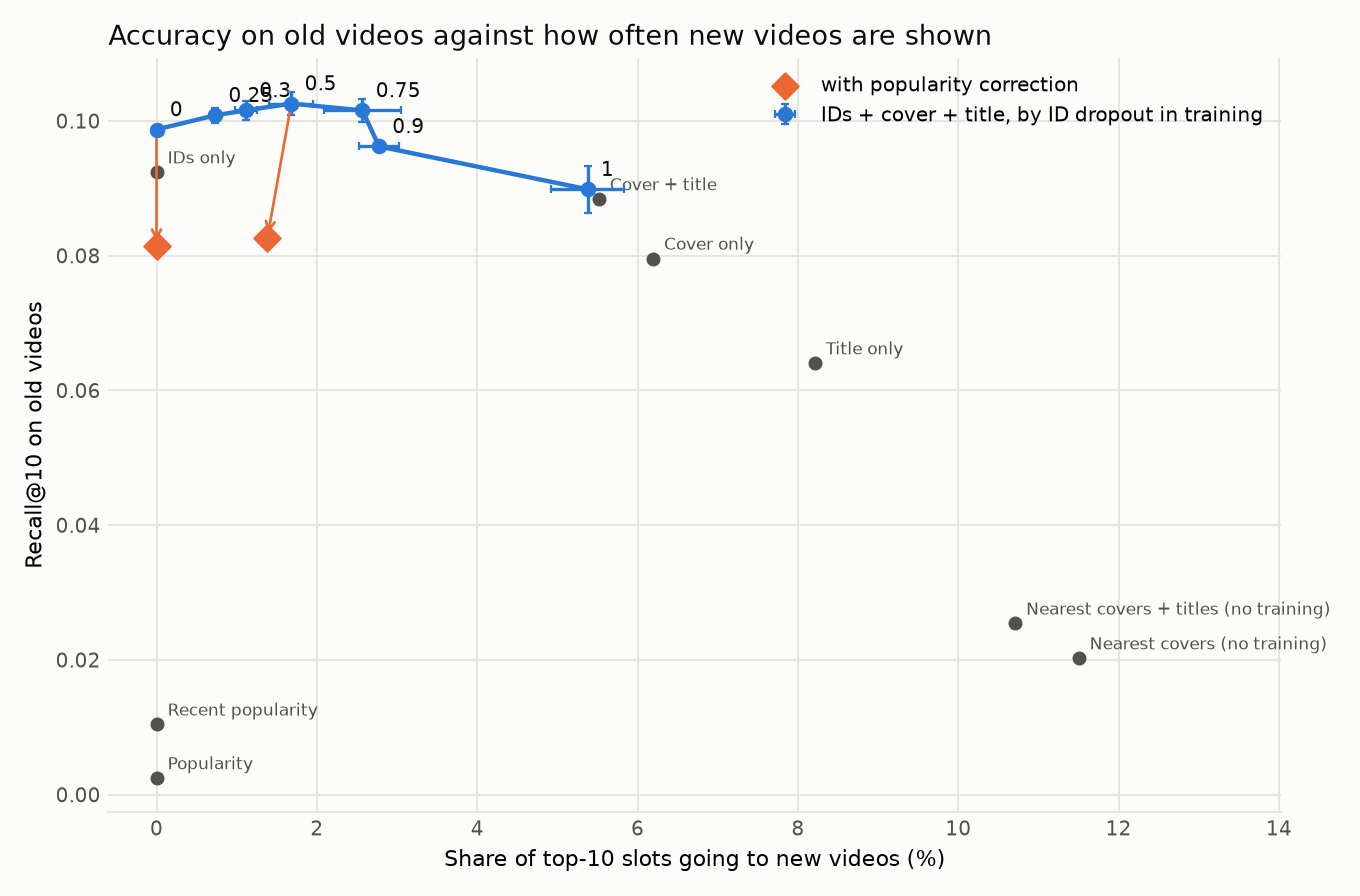
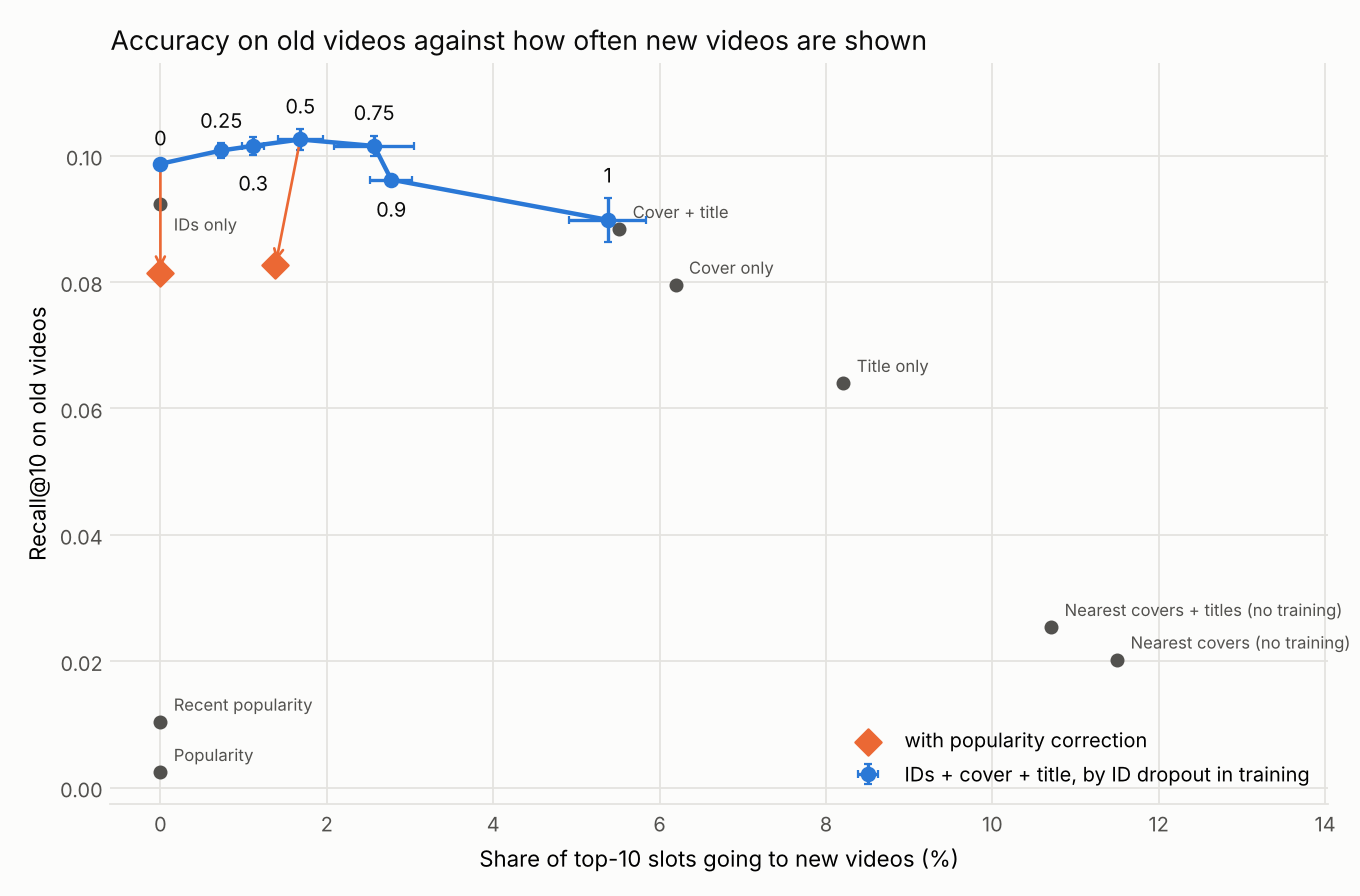
Redraw the vector-length figure so models compare at the same exposure, and stop trade-off labels overlapping

diff --git a/scripts/scale_test.py b/scripts/scale_test.py
@@ -197,36 +197,127 @@ def side_by_side(results: dict, names: dict[str, str]) -> list[str]:
     return lines + [""]
 
 
-def chart(results: dict, names: dict[str, str], path: Path) -> None:
+def curve(seeds: dict) -> list[dict]:
+    """One point per factor (the fixed ones and the calibrated one), mean and std over seeds, by factor.
+
+    "matched" is left out: it is a different factor in each seed and it is reported in the tables."""
+    labels = [r["label"] for r in next(iter(seeds.values()))["rows"] if r["label"] != "matched"]
+    points = []
+    for label in labels:
+        rows = [r for s in seeds.values() for r in s["rows"] if r["label"] == label]
+        point = {"label": label, "factor": mean_std([r["factor"] for r in rows])[0]}
+        for key, path in (("exposure", ("exposure", "cold_slot_share")), ("new", ("cold_all", "recall@10")),
+                          ("old", ("warm_all", "recall@10"))):
+            mean, std = mean_std([r[path[0]][path[1]] for r in rows])
+            point[key], point[f"{key}_std"] = mean, std or 0.0
+        points.append(point)
+    return sorted(points, key=lambda p: p["factor"])
+
+
+# Fixed per model, so a model keeps its colour whichever models are shown.
+COLORS = {"id_content_dropout_050": "#2a78d6", "id_content_dropout_100": "#eb6834",
+          "id_content_dropout_000": "#1baf7a"}
+SHORT = {"id_content_dropout_000": "ID dropout 0", "id_content_dropout_050": "ID dropout 0.5",
+         "id_content_dropout_100": "No IDs"}
+
+
+def visible_range(shown: dict, key: str, x_max: float) -> tuple[float, float]:
+    """Lowest and highest value of `key` the lines reach left of x_max (exposure in %)."""
+    values = []
+    for points in shown.values():
+        xs = [100 * p["exposure"] for p in points]
+        values += [p[key] for p, x in zip(points, xs) if x <= x_max]
+        values.append(float(np.interp(x_max, xs, [p[key] for p in points])))
+    return min(values), max(values)
+
+
+def spread(ys: dict, gap: float) -> dict:
+    """Move label positions apart so that neighbours are at least `gap` apart.
+
+    Labels closer than `gap` form a group, spaced `gap` apart around the group's mean; others stay put."""
+    order = sorted(ys, key=ys.get)
+    groups = [[order[0]]]
+    for name in order[1:]:
+        if ys[name] - ys[groups[-1][-1]] < gap:
+            groups[-1].append(name)
+        else:
+            groups.append([name])
+    out = {}
+    for group in groups:
+        centre = sum(ys[n] for n in group) / len(group)
+        for i, name in enumerate(group):
+            out[name] = centre + (i - (len(group) - 1) / 2) * gap
+    return out
+
+
+def chart(results: dict, names: dict[str, str], path: Path, x_max: float = 25.0) -> None:
+    """Old- and new-video recall against new videos' share of slots, as the factor grows.
+
+    Each line is one model; moving right along it multiplies new videos' vectors by a bigger factor.
+    Hollow dot: the model as trained. Large dot: the factor calibrated on validation users."""
     import matplotlib
     matplotlib.use("Agg")
     import matplotlib.pyplot as plt
-    from report import COLD_COLOR, INK, MUTED, SURFACE, WARM_COLOR, style_axis
+    from report import INK, MUTED, SURFACE, style_axis
 
-    shown = {n: s for n, s in results.items() if s}
-    fig, axes = plt.subplots(1, len(shown), figsize=(5.2 * len(shown), 4.2), facecolor=SURFACE, squeeze=False)
-    for ax, (name, seeds) in zip(axes[0], shown.items()):
-        n_fixed = len(FACTORS)
-        factors = [r["factor"] for r in next(iter(seeds.values()))["rows"][:n_fixed]]
-        exposure = [100 * mean_std([s["rows"][i]["exposure"]["cold_slot_share"] for s in seeds.values()])[0]
-                    for i in range(n_fixed)]
-        warm = [mean_std([s["rows"][i]["warm_all"]["recall@10"] for s in seeds.values()])[0] for i in range(n_fixed)]
-        ax.plot(factors, exposure, "o-", color=COLD_COLOR, linewidth=2)
-        ax.set_xlabel("Factor on new videos' vectors")
-        ax.set_ylabel("New-video exposure (%)", color=COLD_COLOR)
-        matched = mean_std([s["lengths"]["matched_factor"] for s in seeds.values()])[0]
-        ax.axvline(matched, color=MUTED, linestyle="--", linewidth=1)
-        ax.text(matched, ax.get_ylim()[1], " lengths matched", color=MUTED, fontsize=8, va="top")
+    shown = {n: curve(s) for n, s in results.items() if s}
+    fig, axes = plt.subplots(1, 2, figsize=(11, 4.8), facecolor=SURFACE)
+    panels = (("old", "Old videos", "Recall@10, the old video a user took"),
+              ("new", "New videos", "Recall@10, the new video a user took"))
+    for ax, (key, title, ylabel) in zip(axes, panels):
         style_axis(ax)
-        twin = ax.twinx()
-        twin.plot(factors, warm, "s--", color=WARM_COLOR, linewidth=1.5)
-        twin.set_ylabel("Recall@10 on old videos, among all", color=WARM_COLOR)
-        twin.set_ylim(0, max(warm) * 1.25)
-        for side in ("top", "left", "right"):
-            twin.spines[side].set_visible(False)
-        twin.tick_params(colors=MUTED, length=0, labelsize=9)
-        ax.set_title(names.get(name, name), loc="left", color=INK, fontsize=11)
-    fig.tight_layout()
+        ax.yaxis.grid(True, color="#e4e3df", linewidth=0.8)
+        ax.axvline(10, color=MUTED, linestyle=(0, (4, 3)), linewidth=1, zorder=1)
+        for name, points in shown.items():
+            color = COLORS.get(name, MUTED)
+            xs = [100 * p["exposure"] for p in points]
+            ys = [p[key] for p in points]
+            ax.plot(xs, ys, color=color, linewidth=2, zorder=3, label=names.get(name, name))
+            ax.errorbar(xs, ys, xerr=[100 * p["exposure_std"] for p in points],
+                        yerr=[p[f"{key}_std"] for p in points], fmt="none", ecolor=color, alpha=0.45,
+                        elinewidth=1, capsize=0, zorder=2)
+            for p, x, y in zip(points, xs, ys):
+                if p["label"] == "1":
+                    ax.plot(x, y, "o", markersize=8, markerfacecolor=SURFACE, markeredgecolor=color,
+                            markeredgewidth=2, zorder=5)
+                elif p["label"] == "calibrated":
+                    ax.plot(x, y, "o", markersize=11, color=color, markeredgecolor=SURFACE,
+                            markeredgewidth=2, zorder=6)
+                else:
+                    ax.plot(x, y, "o", markersize=5, color=color, zorder=4)
+        ax.set_xlim(-1, x_max)
+        ax.set_xlabel("New videos' share of top-10 slots (%)")
+        ax.set_ylabel(ylabel)
+        ax.set_title(title, loc="left", color=INK, fontsize=11)
+    for ax, (key, _, _) in zip(axes, panels):
+        low, high = visible_range(shown, key, x_max)
+        pad = 0.15 * (high - low)
+        ax.set_ylim(0 if key == "new" else low - pad, high + pad)
+    top = axes[0].get_ylim()[1]
+    axes[0].text(10.3, top, "new videos' share\nof the catalogue", color=MUTED, fontsize=8, va="top")
+    # Direct labels where the lines leave the left panel, pushed apart where lines end close together.
+    ends = {name: float(np.interp(x_max, [100 * p["exposure"] for p in points], [p["old"] for p in points]))
+            for name, points in shown.items()}
+    low, high = axes[0].get_ylim()
+    for name, y in spread(ends, 0.045 * (high - low)).items():
+        axes[0].annotate(SHORT.get(name, name), (x_max, y), xytext=(4, 0), textcoords="offset points",
+                         va="center", fontsize=8.5, color=INK, annotation_clip=False)
+    blue = shown.get("id_content_dropout_050")
+    if blue:
+        trained = next(p for p in blue if p["label"] == "1")
+        calibrated = next(p for p in blue if p["label"] == "calibrated")
+        arrow = dict(arrowstyle="-", color=MUTED, linewidth=0.8)
+        axes[1].annotate("as trained", (100 * trained["exposure"], trained["new"]), xytext=(-6, 44),
+                         textcoords="offset points", ha="center", fontsize=8, color=MUTED, arrowprops=arrow)
+        axes[1].annotate(f"factor {calibrated['factor']:.2f},\nchosen on validation users",
+                         (100 * calibrated["exposure"], calibrated["new"]), xytext=(-110, 40),
+                         textcoords="offset points", fontsize=8, color=MUTED, arrowprops=arrow)
+    handles, labels = axes[0].get_legend_handles_labels()
+    fig.legend(handles, labels, loc="upper left", bbox_to_anchor=(0.01, 0.935), ncol=len(labels),
+               frameon=False, fontsize=9)
+    fig.suptitle("Give every model the same share of new videos, then compare", x=0.01, ha="left",
+                 color=INK, fontsize=12.5)
+    fig.tight_layout(rect=(0, 0, 0.96, 0.95))
     fig.savefig(path, dpi=160, facecolor=SURFACE)
     plt.close(fig)
 

diff --git a/scripts/tradeoff.py b/scripts/tradeoff.py
@@ -122,6 +122,62 @@ def tradeoff_markdown(points: list[dict]) -> str:
     return "\n".join(lines)
 
 
+# Where a point label may go, in points from the point, in order of preference.
+LABEL_SPOTS = [(6, 5), (6, -12), (-8, 5), (-8, -12), (6, 14), (6, -21)]
+
+
+def curve_spots(bar: float) -> list[tuple[float, float]]:
+    """Straight above or below the point, clear of its error bar (`bar` points each way), so the
+    label cannot be read as belonging to a neighbour on the curve."""
+    return [(0, 7 + bar), (0, -16 - bar)]
+
+
+def sample_lines(lines: list[list[tuple[float, float]]], n: int = 25) -> list[tuple[float, float]]:
+    """Points along each polyline, so labels can keep off lines as well as markers."""
+    out = []
+    for line in lines:
+        for (x0, y0), (x1, y1) in zip(line, line[1:]):
+            out += [(x0 + t * (x1 - x0), y0 + t * (y1 - y0)) for t in np.linspace(0, 1, n)]
+    return out
+
+
+def place_labels(ax, items: list[tuple[str, float, float, dict, list]], lines=()) -> None:
+    """Label points without overlap: each label takes the first of its spots that clears earlier labels,
+    the points and the lines, or the least crowded one if none does.
+
+    items: (text, x, y, text style, spots); lines: polylines to keep clear of. Data units throughout."""
+    fig = ax.figure
+    fig.canvas.draw()
+    renderer = fig.canvas.get_renderer()
+    marks = [ax.transData.transform((x, y)) for _, x, y, _, _ in items]
+    radius = 5 * fig.dpi / 72  # half a marker, in pixels
+    along = [ax.transData.transform(pt) for pt in sample_lines(list(lines))]
+    thin = 1.5 * fig.dpi / 72
+    taken = []
+
+    def clashes(box) -> int:
+        """How many labels, points and line samples the box would cover."""
+        near = lambda pts, r: sum(box.x0 - r < mx < box.x1 + r and box.y0 - r < my < box.y1 + r for mx, my in pts)
+        return sum(box.overlaps(t) for t in taken) + near(marks, radius) + near(along, thin)
+
+    for text, x, y, style, spots in items:
+        best = None
+        for dx, dy in spots:
+            ha = "center" if dx == 0 else "left" if dx > 0 else "right"
+            ann = ax.annotate(text, (x, y), xytext=(dx, dy), textcoords="offset points", ha=ha, **style)
+            box = ann.get_window_extent(renderer)
+            score = clashes(box)
+            if best is None or score < best[0]:
+                if best is not None:
+                    best[1].remove()
+                best = (score, ann, box)
+            else:
+                ann.remove()
+            if score == 0:
+                break
+        taken.append(best[2].padded(4))  # the first clear spot, or the least crowded one; a little air around it
+
+
 def tradeoff_chart(points: list[dict], path: Path) -> None:
     import matplotlib
     matplotlib.use("Agg")
@@ -130,19 +186,16 @@ def tradeoff_chart(points: list[dict], path: Path) -> None:
     curve, corrected, others = classify(points)
     fig, ax = plt.subplots(figsize=(8.5, 5.6), facecolor=SURFACE)
     x = lambda p: 100 * p["exposure"]
+    labels = []
     for p in others:
         ax.scatter(x(p), p["warm"], s=28, color=MUTED, zorder=2)
-        ax.annotate(label(p["name"]), (x(p), p["warm"]), xytext=(5, 4), textcoords="offset points",
-                    fontsize=7.5, color=MUTED)
+        labels.append((label(p["name"]), x(p), p["warm"], dict(fontsize=7.5, color=MUTED), LABEL_SPOTS))
     if curve:
         ax.plot([x(p) for p in curve], [p["warm"] for p in curve], color=WARM_COLOR, linewidth=2, zorder=3)
         ax.errorbar([x(p) for p in curve], [p["warm"] for p in curve],
                     xerr=[100 * (p["exposure_std"] or 0) for p in curve], yerr=[p["warm_std"] or 0 for p in curve],
                     fmt="o", color=WARM_COLOR, ecolor=WARM_COLOR, markersize=6, capsize=2, zorder=4,
                     label="IDs + cover + title, by ID dropout in training")
-        for p in curve:
-            ax.annotate(f"{p['id_dropout']:g}", (x(p), p["warm"]), xytext=(6, 6), textcoords="offset points",
-                        fontsize=9, color=INK)
     for i, (p, base) in enumerate(corrected):
         ax.scatter(x(p), p["warm"], s=70, marker="D", color=COLD_COLOR, zorder=5,
                    label="with popularity correction" if i == 0 else None)
@@ -155,11 +208,20 @@ def tradeoff_chart(points: list[dict], path: Path) -> None:
                  fontsize=12)
     ax.margins(x=0.22)  # room for the point labels on the right
     ax.set_xlim(left=-0.6)
+    if curve:  # room above the curve for its labels
+        ax.set_ylim(top=1.1 * max(p["warm"] + (p["warm_std"] or 0) for p in curve))
     style_axis(ax)
     ax.yaxis.grid(True, color="#e4e3df", linewidth=0.8)
     if curve or corrected:
-        ax.legend(frameon=False, fontsize=9, loc="best")
+        ax.legend(frameon=False, fontsize=9, loc="lower right")
     fig.tight_layout()
+    # Positions are final from here. Curve labels go first, measured against their own error bars.
+    to_points = lambda dy: (ax.transData.transform((0, dy))[1] - ax.transData.transform((0, 0))[1]) * 72 / fig.dpi
+    labels = [(f"{p['id_dropout']:g}", x(p), p["warm"], dict(fontsize=9, color=INK),
+               curve_spots(to_points(p["warm_std"] or 0))) for p in curve] + labels
+    lines = [[(x(p), p["warm"]) for p in curve]]
+    lines += [[(x(base), base["warm"]), (x(p), p["warm"])] for p, base in corrected if base is not None]
+    place_labels(ax, labels, lines)
     fig.savefig(path, dpi=160, facecolor=SURFACE)
     plt.close(fig)
 

diff --git a/tests/test_scale_test.py b/tests/test_scale_test.py
@@ -81,3 +81,38 @@ def test_exposure_rises_with_the_factor_and_like_for_like_table(tmp_path):
     # Results saved before calibration existed are still reported, without the comparison table.
     old = {"m": {"0": {"lengths": seed["lengths"], "rows": rows[:1]}}}
     assert "## Like for like" not in scale_test.markdown(old, {"m": "A model"})
+
+
+def fake_seed(factors_and_rows):
+    rows = [{"label": label, "factor": f, "exposure": {"cold_slot_share": e},
+             "cold_all": {"recall@10": new}, "warm_all": {"recall@10": old}}
+            for label, f, e, new, old in factors_and_rows]
+    return {"lengths": {"matched_factor": 1.3}, "rows": rows, "calibration": {"target_exposure": 0.1, "factor": 1.1}}
+
+
+def test_curve_orders_by_factor_and_leaves_out_matched():
+    seeds = {"0": fake_seed([("1", 1.0, 0.02, 0.01, 0.10), ("2", 2.0, 0.50, 0.05, 0.05),
+                             ("matched", 1.3, 0.20, 0.03, 0.08), ("calibrated", 1.1, 0.10, 0.02, 0.09)]),
+             "1": fake_seed([("1", 1.0, 0.04, 0.01, 0.12), ("2", 2.0, 0.50, 0.05, 0.05),
+                             ("matched", 1.4, 0.30, 0.03, 0.08), ("calibrated", 1.2, 0.10, 0.02, 0.09)])}
+    points = scale_test.curve(seeds)
+    assert [p["label"] for p in points] == ["1", "calibrated", "2"]
+    first = points[0]
+    assert abs(first["exposure"] - 0.03) < 1e-12 and abs(first["old"] - 0.11) < 1e-12 and first["old_std"] > 0
+    assert abs(points[1]["factor"] - 1.15) < 1e-12 and points[2]["new_std"] == 0.0
+
+
+def test_end_labels_are_pushed_apart_only_when_they_collide():
+    out = scale_test.spread({"a": 1.00, "b": 1.01, "c": 2.0}, gap=0.1)
+    assert abs(out["b"] - out["a"] - 0.1) < 1e-12 and abs((out["a"] + out["b"]) / 2 - 1.005) < 1e-12
+    assert out["c"] == 2.0
+
+
+def test_same_exposure_chart_is_written(tmp_path):
+    seed = fake_seed([("1", 1.0, 0.02, 0.01, 0.10), ("calibrated", 1.1, 0.10, 0.02, 0.09),
+                      ("1.5", 1.5, 0.40, 0.04, 0.06)])
+    results = {"id_content_dropout_050": {"0": seed}, "id_content_dropout_100": {"0": seed}, "empty": {}}
+    low, high = scale_test.visible_range({n: scale_test.curve(s) for n, s in results.items() if s}, "old", 25.0)
+    assert low < 0.09 < high <= 0.10  # the line's value where it leaves the plot counts, 0.06 does not
+    scale_test.chart(results, scale_test.NAMES, tmp_path / "chart.png")
+    assert (tmp_path / "chart.png").stat().st_size > 0

diff --git a/tests/test_exposure_report.py b/tests/test_exposure_report.py
@@ -104,3 +104,20 @@ def test_tradeoff_main_writes_changes_against_the_uncorrected_run(tmp_path):
     # warm 0.10 -> 0.09 is -10.0%; exposure 1.00% -> 3.00% is +2.00 points
     assert "| -10.0% |" in text and "| +2.00 |" in text
     assert (tmp_path / "tradeoff.png").stat().st_size > 0
+
+
+def test_tradeoff_labels_do_not_overlap(tmp_path):
+    import matplotlib
+    matplotlib.use("Agg")
+    import matplotlib.pyplot as plt
+
+    fig, ax = plt.subplots(figsize=(4, 3))
+    pts = [(0.0, 0.100), (0.7, 0.101), (1.1, 0.102), (5.4, 0.090), (5.5, 0.088)]
+    ax.plot(*zip(*pts), "o")
+    items = [(f"label {i}", x, y, dict(fontsize=8), tradeoff.LABEL_SPOTS) for i, (x, y) in enumerate(pts)]
+    tradeoff.place_labels(ax, items)
+    fig.canvas.draw()
+    boxes = [t.get_window_extent() for t in ax.texts]
+    assert len(boxes) == len(pts)
+    assert not any(a.overlaps(b) for i, a in enumerate(boxes) for b in boxes[i + 1:])
+    plt.close(fig)
